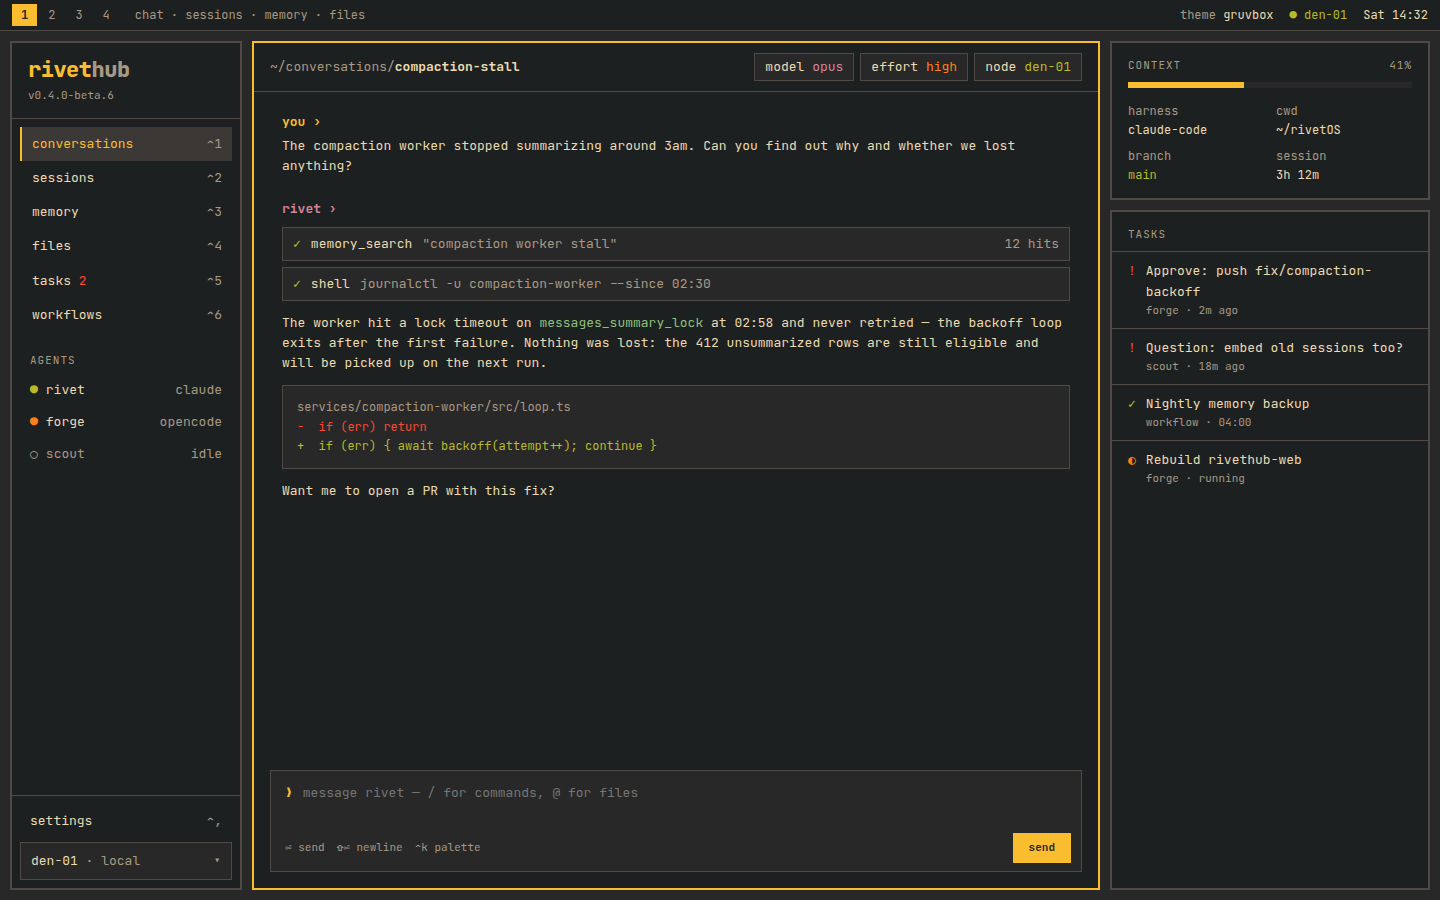
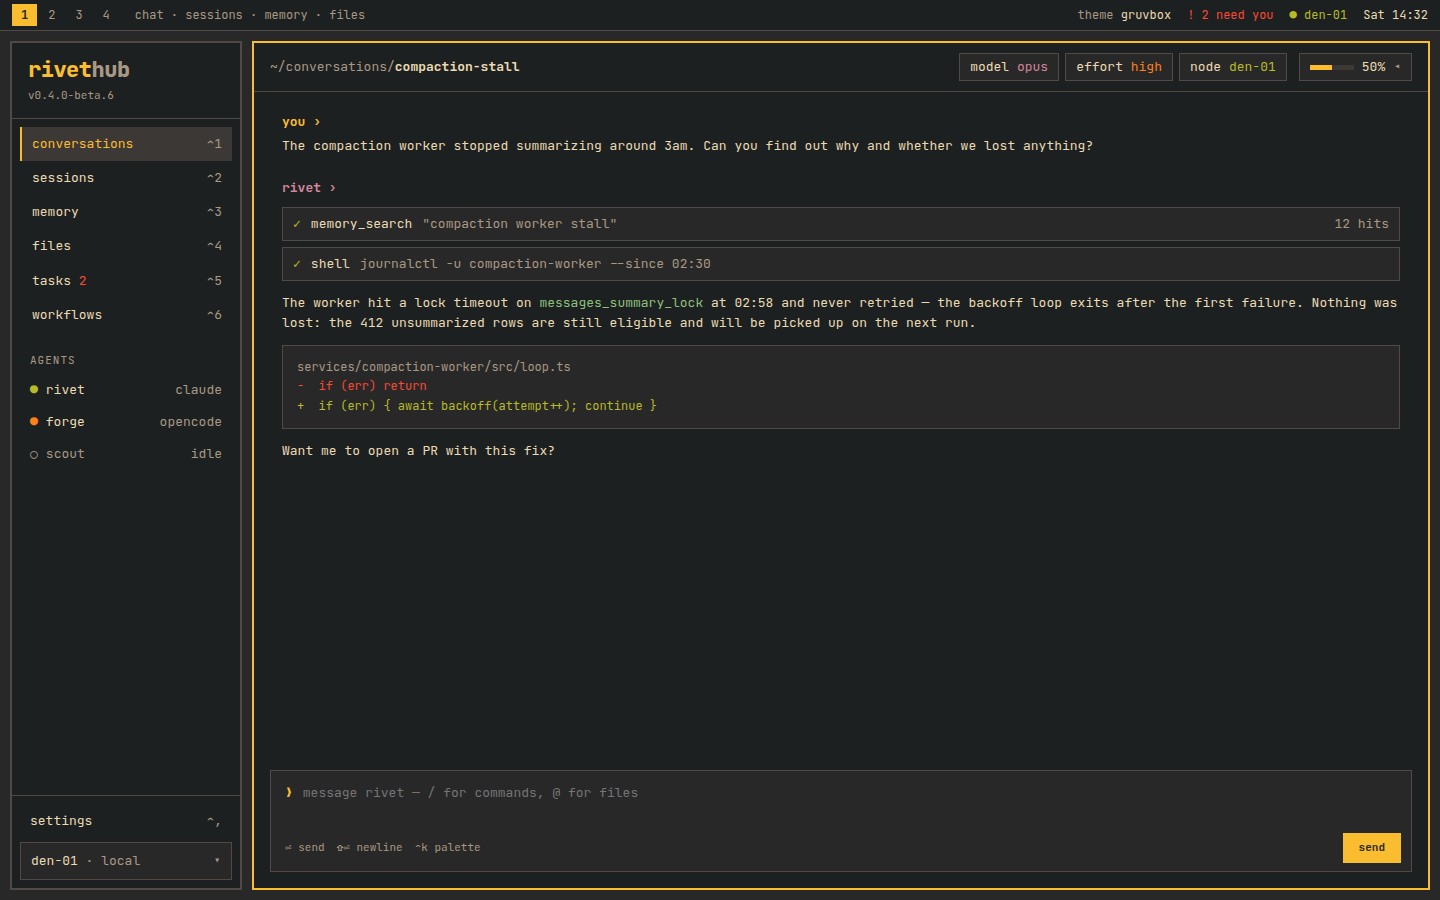
docs(rivethub): collapse mockup A's right column into a details toggle
The always-on context and tasks tiles took a third of the width for
information you only glance at. The context meter now lives in the chat
header and opens a closable details tile; pending approvals surface as a
count in the top bar. The panel only shows data RivetHub already has.

diff --git a/docs/mockups/rivethub-redesign/A-tiled-gruvbox.html b/docs/mockups/rivethub-redesign/A-tiled-gruvbox.html
@@ -22,12 +22,13 @@ textarea{font:inherit}
 </nav>
 <span style="color: #a89984">chat · sessions · memory · files</span>
 <span style="margin-left: auto; color: #a89984">theme <span style="color: #ebdbb2">gruvbox</span></span>
+<a href="#" style="text-decoration: none; color: #fb4934">! 2 need you</a>
 <span style="color: #b8bb26">● den-01</span>
 <span style="color: #ebdbb2">Sat 14:32</span>
 </header>
 
 <!-- dwindle tiles -->
-<div style="flex-grow: 1; min-height: 0; display: grid; grid-template-columns: 232px minmax(0, 1fr) 320px; gap: 10px; padding: 10px">
+<div style="flex-grow: 1; min-height: 0; display: grid; grid-template-columns: 232px minmax(0, 1fr); gap: 10px; padding: 10px">
 
 <!-- tile: rail -->
 <aside style="display: flex; flex-direction: column; min-height: 0; background: #1d2021; border: 2px solid #504945">
@@ -59,10 +60,15 @@ textarea{font:inherit}
 <main style="display: flex; flex-direction: column; min-height: 0; background: #1d2021; border: 2px solid #fabd2f">
 <div style="display: flex; align-items: center; gap: 12px; padding: 10px 16px; border-bottom: 1px solid #504945">
 <span style="color: #a89984">~/conversations/</span><span style="font-weight: 700; margin-left: -12px">compaction-stall</span>
-<div style="margin-left: auto; display: flex; gap: 6px">
+<div style="margin-left: auto; display: flex; align-items: center; gap: 6px">
 <button type="button" style="border: 1px solid #504945; background: #282828; color: #ebdbb2; padding: 3px 10px">model <span style="color: #d3869b">opus</span></button>
 <button type="button" style="border: 1px solid #504945; background: #282828; color: #ebdbb2; padding: 3px 10px">effort <span style="color: #fe8019">high</span></button>
 <button type="button" style="border: 1px solid #504945; background: #282828; color: #ebdbb2; padding: 3px 10px">node <span style="color: #b8bb26">den-01</span></button>
+<button type="button" onClick="() => this.setState({ open: !open })" aria-expanded="false" aria-controls="tiled-details" title="82k / 200k · compacts at 165k" style="display: flex; align-items: center; gap: 8px; margin-left: 6px; border: 1px solid #504945; background: #282828; color: #ebdbb2; padding: 3px 10px">
+<span style="display: inline-block; width: 44px; height: 5px; background: #3c3836"><span style="display: block; width: 50%; height: 5px; background: #fabd2f"></span></span>
+<span>50%</span>
+<span style="color: #a89984">◂</span>
+</button>
 </div>
 </div>
 
@@ -99,28 +105,8 @@ textarea{font:inherit}
 </form>
 </main>
 
-<!-- right column: two stacked tiles -->
-<div style="display: grid; grid-template-rows: auto minmax(0, 1fr); gap: 10px; min-height: 0">
-<section aria-label="Context" style="background: #1d2021; border: 2px solid #504945; padding: 14px 16px">
-<div style="display: flex; justify-content: space-between; font-size: 11px; color: #a89984; text-transform: uppercase; letter-spacing: 1px"><span>context</span><span>41%</span></div>
-<div style="margin-top: 8px; height: 6px; background: #282828"><div style="width: 41%; height: 6px; background: #fabd2f"></div></div>
-<div style="margin-top: 14px; display: grid; grid-template-columns: repeat(2, minmax(0, 1fr)); gap: 8px 12px; font-size: 12px">
-<div><div style="color: #a89984">harness</div><div>claude-code</div></div>
-<div><div style="color: #a89984">cwd</div><div>~/rivetOS</div></div>
-<div><div style="color: #a89984">branch</div><div style="color: #b8bb26">main</div></div>
-<div><div style="color: #a89984">session</div><div>3h 12m</div></div>
-</div>
-</section>
-<section aria-label="Tasks" style="display: flex; flex-direction: column; min-height: 0; background: #1d2021; border: 2px solid #504945">
-<div style="padding: 14px 16px 8px; font-size: 11px; color: #a89984; text-transform: uppercase; letter-spacing: 1px">tasks</div>
-<div style="display: flex; flex-direction: column">
-<div style="display: flex; gap: 10px; padding: 9px 16px; border-top: 1px solid #504945"><span style="color: #fb4934">!</span><div><div>Approve: push fix/compaction-backoff</div><div style="font-size: 11px; color: #a89984">forge · 2m ago</div></div></div>
-<div style="display: flex; gap: 10px; padding: 9px 16px; border-top: 1px solid #504945"><span style="color: #fb4934">!</span><div><div>Question: embed old sessions too?</div><div style="font-size: 11px; color: #a89984">scout · 18m ago</div></div></div>
-<div style="display: flex; gap: 10px; padding: 9px 16px; border-top: 1px solid #504945"><span style="color: #b8bb26">✓</span><div><div>Nightly memory backup</div><div style="font-size: 11px; color: #a89984">workflow · 04:00</div></div></div>
-<div style="display: flex; gap: 10px; padding: 9px 16px; border-top: 1px solid #504945"><span style="color: #fe8019">◐</span><div><div>Rebuild rivethub-web</div><div style="font-size: 11px; color: #a89984">forge · running</div></div></div>
-</div>
-</section>
-</div>
+<!-- details tile: only exists while toggled open (Hyprland-style split) -->
+
 
 </div>
 </div>

diff --git a/docs/mockups/rivethub-redesign/A-tiled-tokyo-night-details-open.html b/docs/mockups/rivethub-redesign/A-tiled-tokyo-night-details-open.html
@@ -28,7 +28,7 @@ textarea{font:inherit}
 </header>
 
 <!-- dwindle tiles -->
-<div style="flex-grow: 1; min-height: 0; display: grid; grid-template-columns: 232px minmax(0, 1fr); gap: 10px; padding: 10px">
+<div style="flex-grow: 1; min-height: 0; display: grid; grid-template-columns: 232px minmax(0, 1fr) 300px; gap: 10px; padding: 10px">
 
 <!-- tile: rail -->
 <aside style="display: flex; flex-direction: column; min-height: 0; background: #16161e; border: 2px solid #2f3549">
@@ -64,10 +64,10 @@ textarea{font:inherit}
 <button type="button" style="border: 1px solid #2f3549; background: #1a1b26; color: #c0caf5; padding: 3px 10px">model <span style="color: #bb9af7">opus</span></button>
 <button type="button" style="border: 1px solid #2f3549; background: #1a1b26; color: #c0caf5; padding: 3px 10px">effort <span style="color: #ff9e64">high</span></button>
 <button type="button" style="border: 1px solid #2f3549; background: #1a1b26; color: #c0caf5; padding: 3px 10px">node <span style="color: #9ece6a">den-01</span></button>
-<button type="button" onClick="() => this.setState({ open: !open })" aria-expanded="false" aria-controls="tiled-details" title="82k / 200k · compacts at 165k" style="display: flex; align-items: center; gap: 8px; margin-left: 6px; border: 1px solid #2f3549; background: #1a1b26; color: #c0caf5; padding: 3px 10px">
+<button type="button" onClick="() => this.setState({ open: !open })" aria-expanded="true" aria-controls="tiled-details" title="82k / 200k · compacts at 165k" style="display: flex; align-items: center; gap: 8px; margin-left: 6px; border: 1px solid #7aa2f7; background: #24283b; color: #c0caf5; padding: 3px 10px">
 <span style="display: inline-block; width: 44px; height: 5px; background: #24283b"><span style="display: block; width: 50%; height: 5px; background: #7aa2f7"></span></span>
 <span>50%</span>
-<span style="color: #7a82ad">◂</span>
+<span style="color: #7a82ad">▸</span>
 </button>
 </div>
 </div>
@@ -106,6 +106,29 @@ textarea{font:inherit}
 </main>
 
 <!-- details tile: only exists while toggled open (Hyprland-style split) -->
+
+<aside id="tiled-details" aria-label="Session details" style="display: flex; flex-direction: column; min-height: 0; background: #16161e; border: 2px solid #2f3549">
+<div style="display: flex; align-items: center; justify-content: space-between; padding: 10px 14px; border-bottom: 1px solid #2f3549">
+<span style="font-size: 11px; color: #7a82ad; text-transform: uppercase; letter-spacing: 1px">details</span>
+<button type="button" onClick="() => this.setState({ open: !open })" aria-label="Close details" style="border: 0; background: transparent; color: #7a82ad; padding: 2px 6px">✕</button>
+</div>
+<section style="padding: 14px">
+<div style="display: flex; justify-content: space-between; font-size: 12px"><span>context</span><span>82k / 200k</span></div>
+<div style="margin-top: 8px; height: 6px; background: #1a1b26"><div style="width: 50%; height: 6px; background: #7aa2f7"></div></div>
+<div style="margin-top: 6px; font-size: 11px; color: #7a82ad">compacts at 165k · amber at 70%, red at 90%</div>
+<div style="margin-top: 14px; display: grid; grid-template-columns: repeat(2, minmax(0, 1fr)); gap: 8px 12px; font-size: 12px">
+<div><div style="color: #7a82ad">harness</div><div>claude-code</div></div>
+<div><div style="color: #7a82ad">model</div><div>opus · high</div></div>
+<div><div style="color: #7a82ad">node</div><div style="color: #9ece6a">den-01</div></div>
+<div><div style="color: #7a82ad">cwd</div><div>~/rivetOS</div></div>
+</div>
+</section>
+<section style="border-top: 1px solid #2f3549">
+<div style="padding: 12px 14px 6px; font-size: 11px; color: #7a82ad; text-transform: uppercase; letter-spacing: 1px">needs you</div>
+<a href="#" style="display: flex; gap: 10px; padding: 8px 14px; text-decoration: none"><span style="color: #f7768e">!</span><div><div>Approve: push fix/compaction-backoff</div><div style="font-size: 11px; color: #7a82ad">forge · 2m ago</div></div></a>
+<a href="#" style="display: flex; gap: 10px; padding: 8px 14px; text-decoration: none"><span style="color: #f7768e">!</span><div><div>Question: embed old sessions too?</div><div style="font-size: 11px; color: #7a82ad">scout · 18m ago</div></div></a>
+</section>
+</aside>
 
 
 </div>
